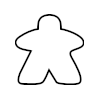
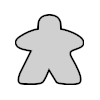
bilder für meeple besser sichtbar

Changed region(s): [[0.15, 0.15, 0.84, 0.84]]

diff --git a/src/fop/model/Gameboard.java b/src/fop/model/Gameboard.java
@@ -358,7 +358,7 @@ public class Gameboard extends Observable<Gameboard> {
 					score *= 2;
 				
 				// In our simple variant of counting every tile with fields, scoring fields
-				// gets rather imbalanced, so we just divide the points by four.
+				// gets rather imbalanced, so we just divide the points for fields by four.
 				if (type == FIELDS)
 					score /= 4;
 

diff --git a/src/fop/controller/GameController.java b/src/fop/controller/GameController.java
@@ -262,6 +262,10 @@ public class GameController extends Observable<List<Player>> {
 		});
 	}
 
+	/**
+	 * Go to next round or set state to GAME_OVER (final scoring), when there are no
+	 * remaining tiles.
+	 */
 	public void nextRound() {
 		boardPanel.removeTempMeepleOverlay();
 		if (stack.remainingTiles() == 0)
